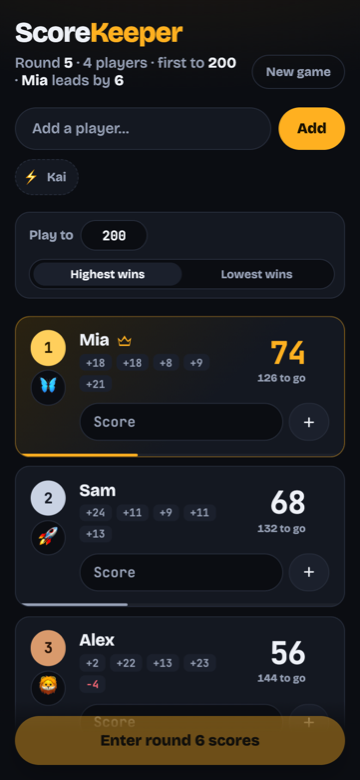
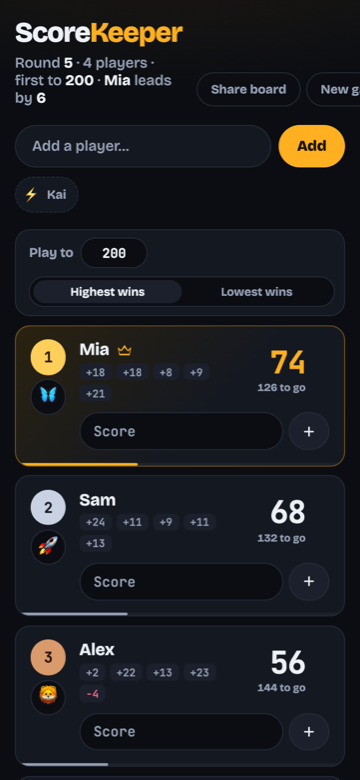
Add share-dialog screenshot and tighten the README

diff --git a/docs/BUILDING.md b/docs/BUILDING.md
@@ -26,6 +26,18 @@ a 500 on `/api/rooms/<code>/ws` and a "did not return status 101" error in the l
 `npm run dev:static` serves only `public/index.html` through `server.mjs` on 6161 (or `$PORT`),
 with no API; the page falls back to the placeholder chips and keeps no history.
 
+## Loading a demo game
+
+```bash
+node Tools/demo-state.mjs longgame     # also: empty, midgame, hearts, nearend
+```
+
+Paste the output into the browser console, then reload:
+
+```js
+localStorage.setItem("score-keeper", JSON.stringify(<paste the output here>)); location.reload();
+```
+
 ## Layout
 
 ```
@@ -106,7 +118,8 @@ The script starts the dev server on port 6199, launches headless Chrome with rem
 9333, loads each state from `Tools/demo-state.mjs` into `localStorage`, reloads, waits for fonts,
 runs an optional in-page action (the game-over shot submits a score through the real form so the
 overlay and confetti fire), captures at 2x, and downscales to 1600 px wide with `sips`. Add a shot
-by appending to the `SHOTS` array; add a state by adding to `states` in `demo-state.mjs`.
+by appending to the `SHOTS` array; add a state by adding to `states` in `demo-state.mjs`. A shot
+can set `room` to draw the share dialog against the static server; the socket fails quietly.
 
 Open every PNG afterwards. Fonts still loading or an overlay caught mid-fade get past the script
 and not past a look.

diff --git a/README.md b/README.md
@@ -44,8 +44,8 @@ the board keeps the running totals in rank order and calls the game when someone
 
 | | |
 |---|---|
-| ![Empty](docs/screenshots/empty.png) | ![Lowest wins](docs/screenshots/lowest-wins.png) |
-| Empty | Lowest wins |
+| ![Share](docs/screenshots/share.png) | ![Lowest wins](docs/screenshots/lowest-wins.png) |
+| Share | Lowest wins |
 | ![History](docs/screenshots/history.png) | ![Game over](docs/screenshots/game-over.png) |
 | History | Game over |
 
@@ -68,15 +68,8 @@ Open http://127.0.0.1:6161. This runs the Worker, the live rooms, and a local D1
 sharing and the hall of fame work offline: open the same room URL in two tabs to watch them
 sync. `npm run dev:static` serves only the page, with no history and no sharing.
 
-To try it with a game already in progress, paste a synthetic state into the browser console:
-
-```bash
-node Tools/demo-state.mjs longgame
-```
-
-```js
-localStorage.setItem("score-keeper", JSON.stringify(<paste the output here>)); location.reload();
-```
+To try it with a game already in progress, load one of the synthetic states from
+`Tools/demo-state.mjs`; docs/BUILDING.md shows the one-line console paste.
 
 To host it, create your own database, paste its id into `wrangler.jsonc`, and deploy:
 
